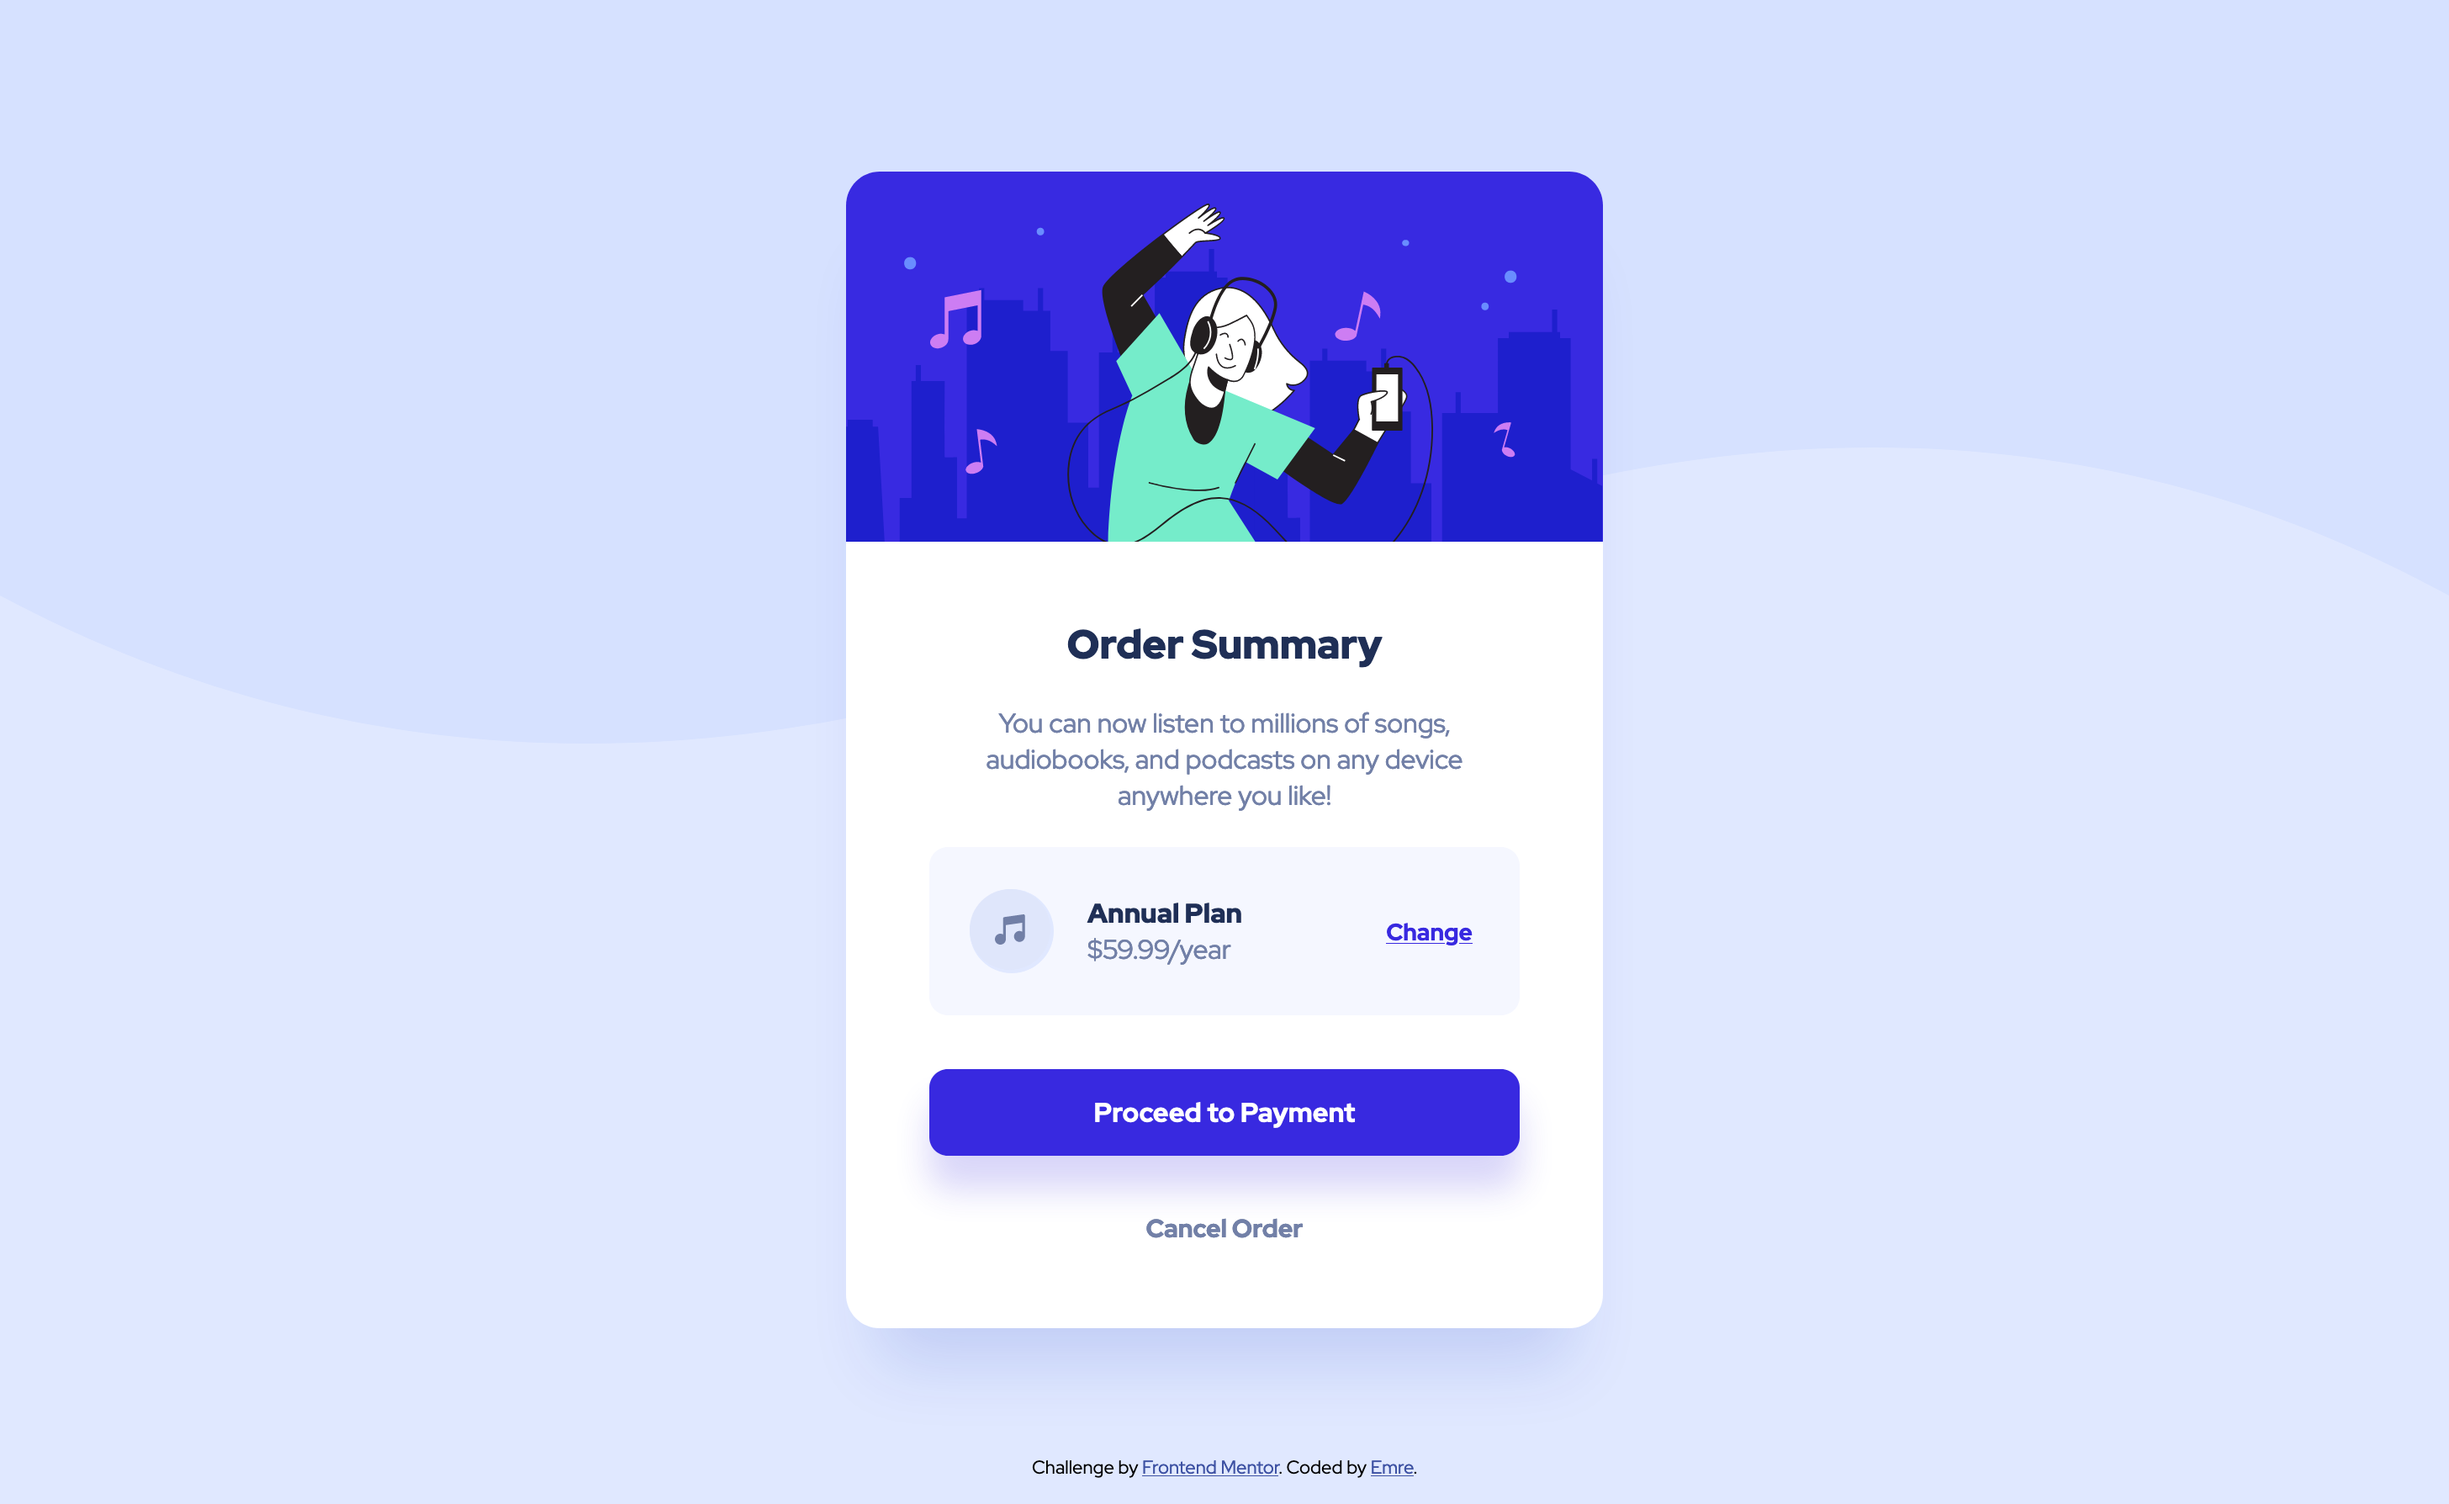
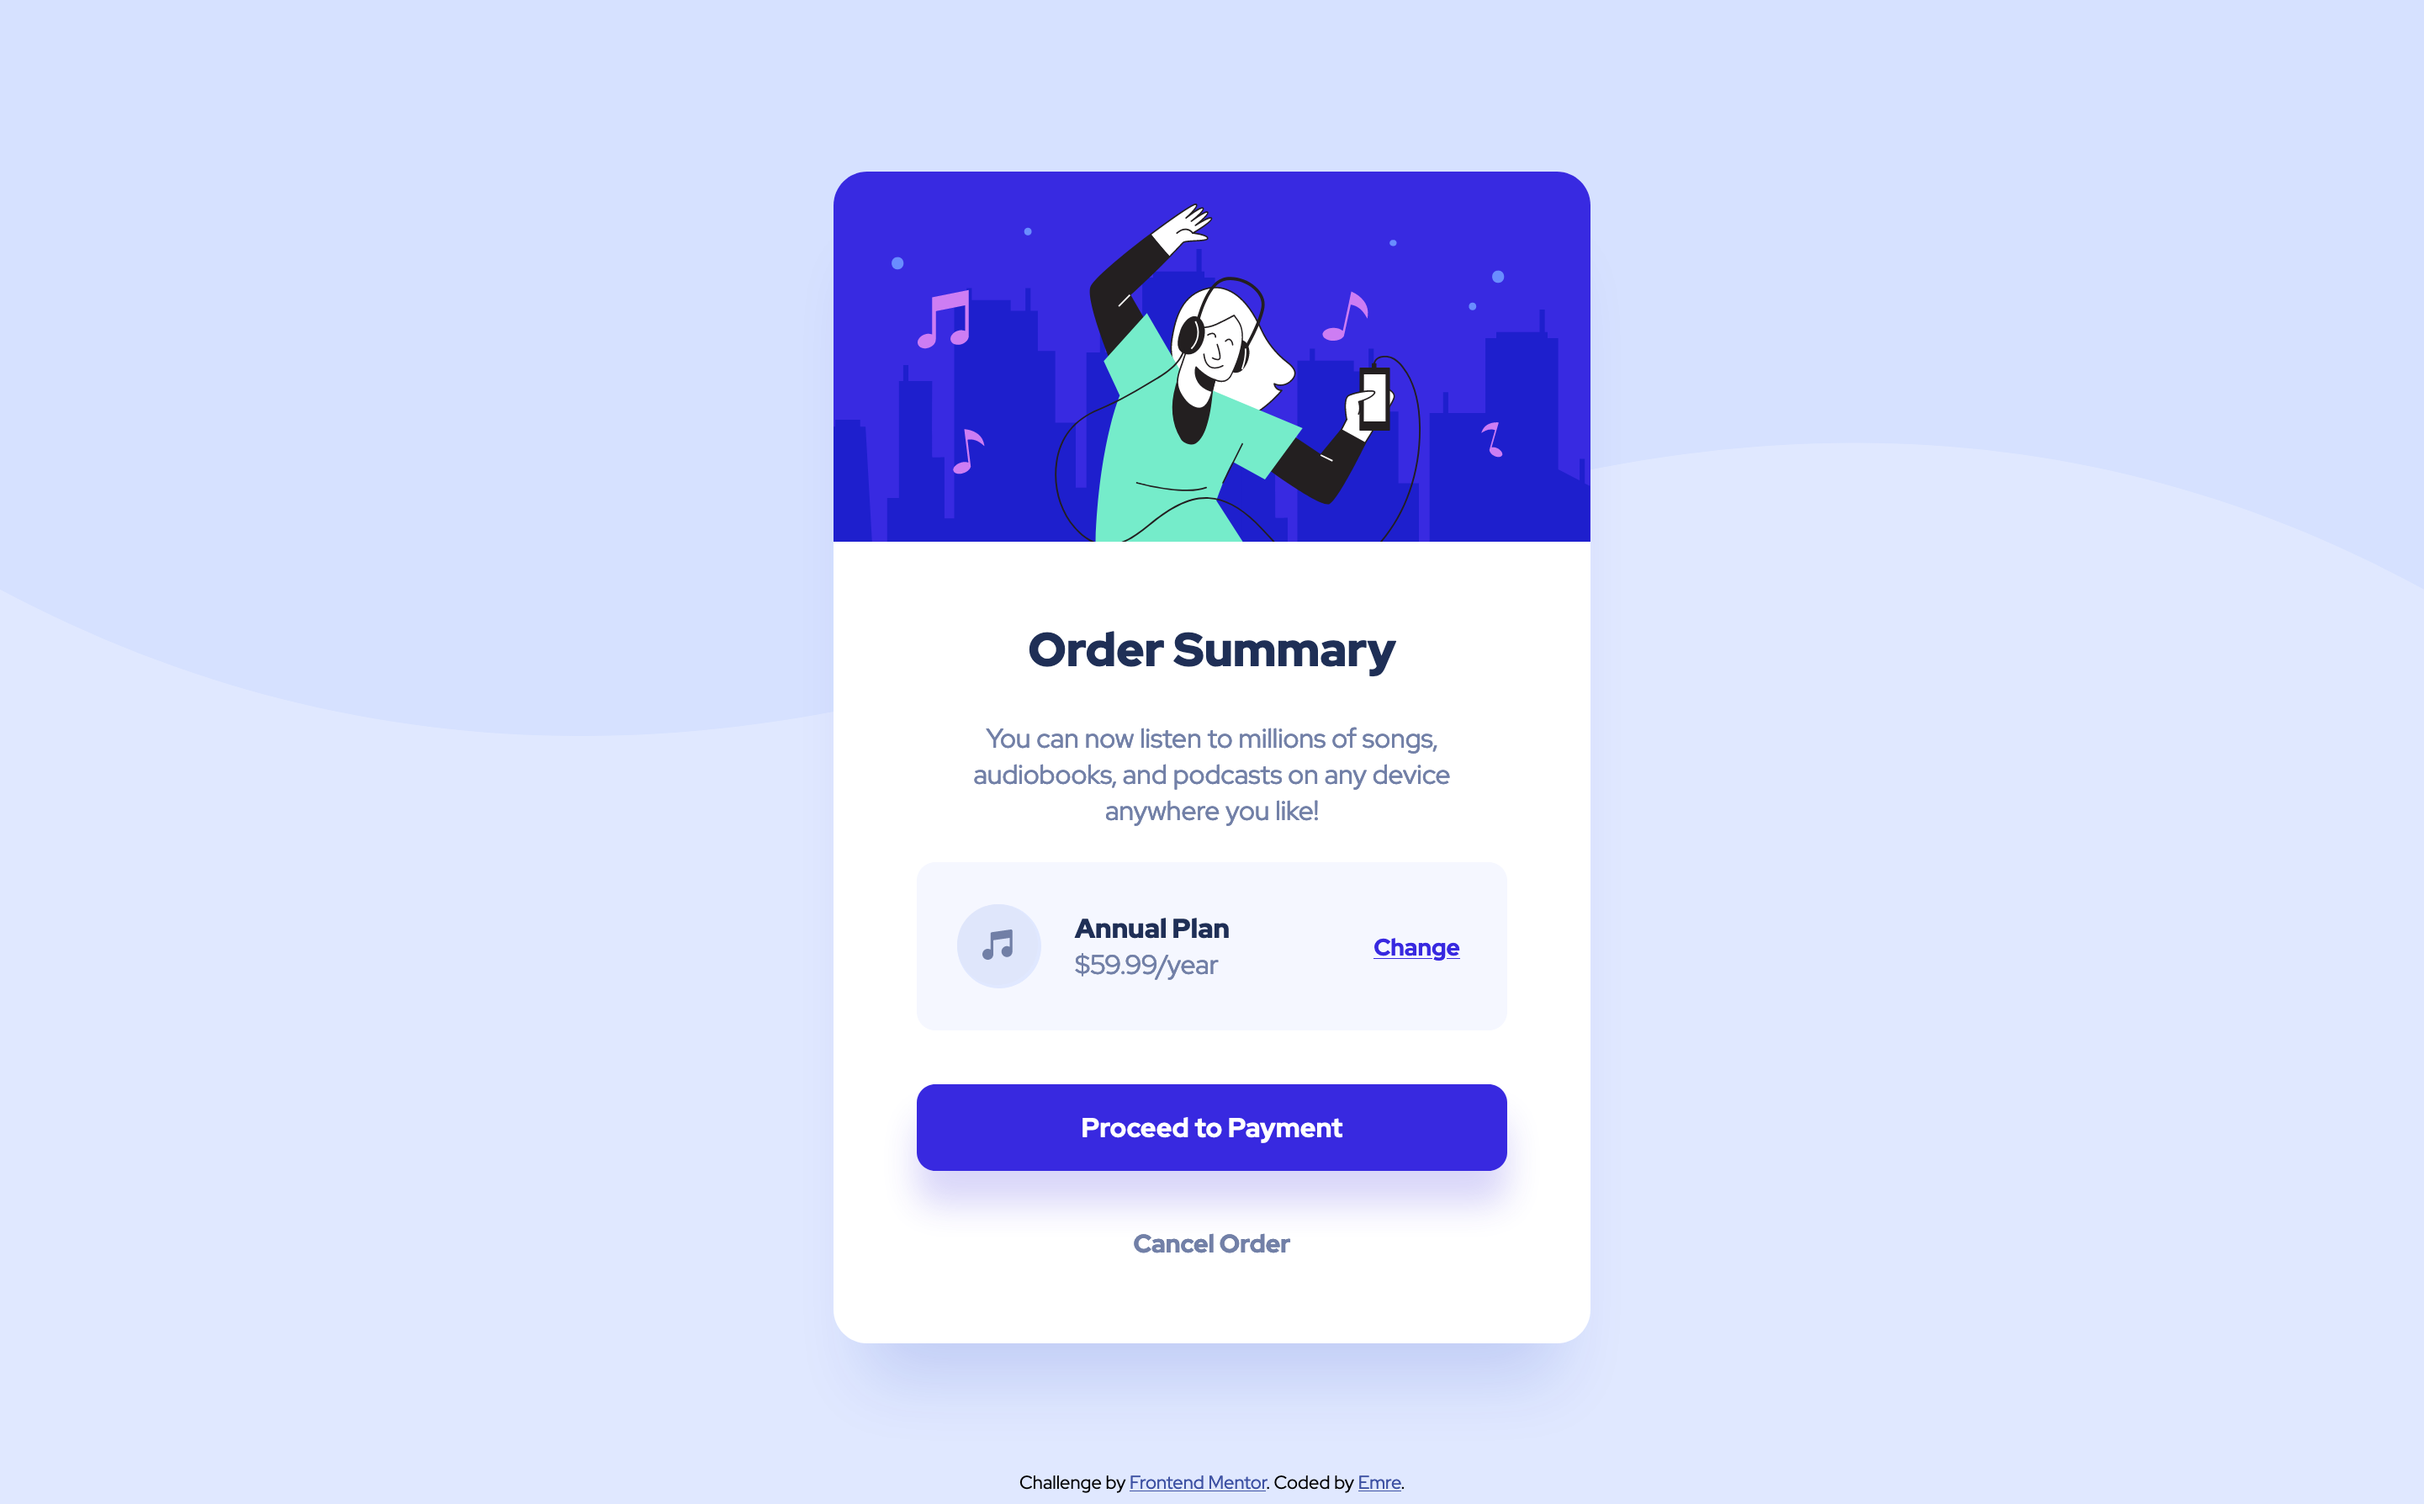
h1 fix

diff --git a/style.css b/style.css
@@ -25,7 +25,7 @@ h4 {
 }
 
 h1 {
-  font-weight: 28px;
+  font-size: 28px;
 }
 
 p {
